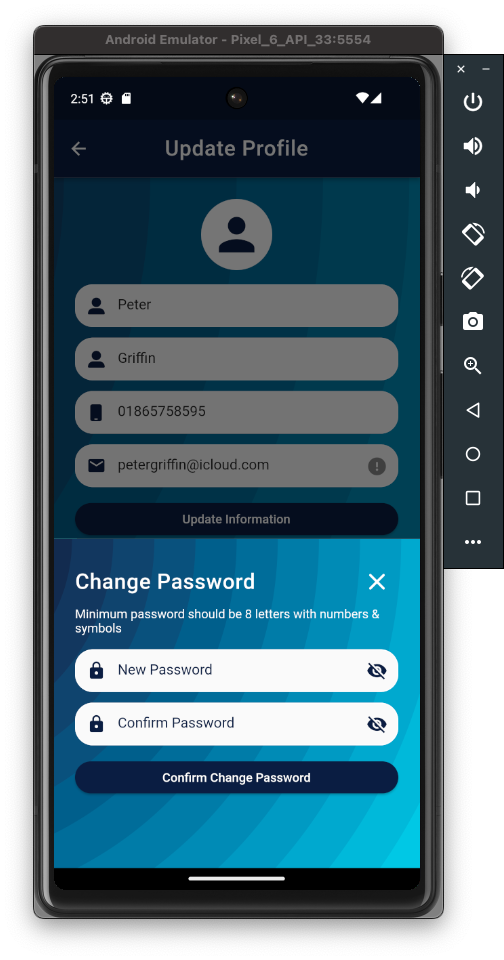
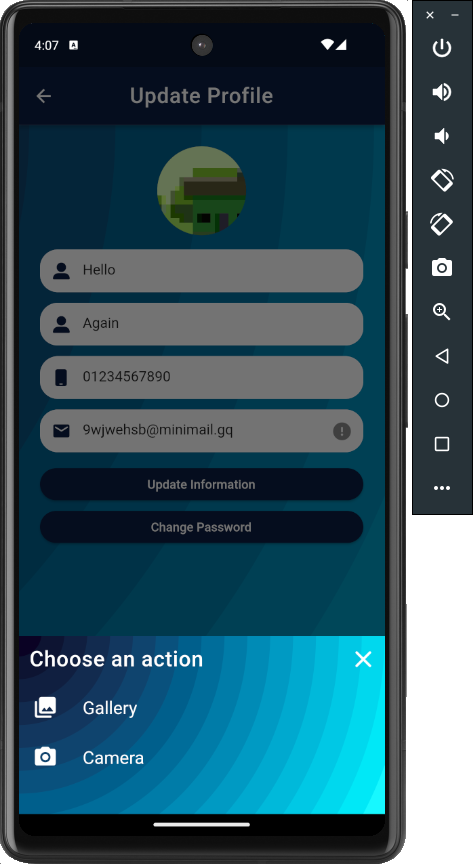
null check error fix

diff --git a/lib/ui/pages/update/update_profile_page.dart b/lib/ui/pages/update/update_profile_page.dart
@@ -31,21 +31,14 @@ class _ProfilePageState extends State<ProfilePage> {
   UpdateProfileController updateProfileController =
       Get.put(UpdateProfileController());
 
-  //UserData? userSharedperfData = AuthUtils.userInfo.value.data;
-UserData userSharedperfData = AuthUtils.userInfo.value.data!;
+  UserData userSharedperfData = AuthUtils.userInfo.value.data!;
   @override
   void initState() {
     super.initState();
-     _firstNameController.text = userSharedperfData.firstName ?? '';
+    _firstNameController.text = userSharedperfData.firstName ?? '';
     _lastNameController.text = userSharedperfData.lastName ?? '';
     _mobileNumberController.text = userSharedperfData.mobile ?? '';
     _emailController.text = userSharedperfData.email ?? '';
-    // if (userSharedperfData != null) {
-    //   _firstNameController.text = userSharedperfData?.firstName ?? '';
-    //   _lastNameController.text = userSharedperfData?.lastName ?? '';
-    //   _mobileNumberController.text = userSharedperfData?.mobile ?? '';
-    //   _emailController.text = userSharedperfData?.email ?? '';
-    // }
   }
 
   File? _imageFile;
@@ -58,17 +51,16 @@ UserData userSharedperfData = AuthUtils.userInfo.value.data!;
 
       _imageFile = File(pickedImage.path);
 
-      base64String = await Base64Image.base64EncodedString(_imageFile);
+      if (_imageFile != null) {
+        base64String = await Base64Image.base64EncodedString(_imageFile);
+      }
 
       setState(() {});
     } on PlatformException catch (e) {
       if (mounted) {
         CustomSnackbar.show(context: context, message: 'Error: $e');
-        
       }
     }
-
-  
   }
 
   @override
@@ -100,7 +92,6 @@ UserData userSharedperfData = AuthUtils.userInfo.value.data!;
                     ),
                   ),
                 ),
-                
                 const SizedBox(
                   height: 16,
                 ),
@@ -217,29 +208,30 @@ UserData userSharedperfData = AuthUtils.userInfo.value.data!;
                               if (!_formKey.currentState!.validate()) {
                                 return;
                               }
-
+                              final newProfileImage =
+                                  base64String ?? userSharedperfData.photo;
                               updateProfileController
                                   .profileUpdate(
-                                      _firstNameController.text.trim(),
-                                      _lastNameController.text.trim(),
-                                      _mobileNumberController.text.trim(),
-                                      userSharedperfData.email,
-                                      userSharedperfData.email,
-                                      // base64String ??
-                                      //     AuthUtils
-                                      //         .userInfo.value.data!.photo ??
-                                      //     "",
-                                          )
+                                _firstNameController.text.trim(),
+                                _lastNameController.text.trim(),
+                                _mobileNumberController.text.trim(),
+                                userSharedperfData.email,
+                                newProfileImage ?? "",
+                              )
                                   .then((updateProfile) {
                                 if (updateProfile == true) {
-                                  AuthUtils.updateUserInfo(UserData(
-                                    firstName: _firstNameController.text.trim(),
-                                    lastName: _lastNameController.text.trim(),
-                                    mobile: _mobileNumberController.text.trim(),
-                                    email: userSharedperfData.email,
-                                   // photo: base64String
-                                    //AuthUtils.updateUserInfo(userData)
-                                  ));
+                                  userSharedperfData.firstName =
+                                      _firstNameController.text.trim();
+                                  userSharedperfData.lastName =
+                                      _lastNameController.text.trim();
+                                  userSharedperfData.mobile =
+                                      _mobileNumberController.text.trim();
+                                  userSharedperfData.email =
+                                      userSharedperfData.email;
+                                  userSharedperfData.photo = newProfileImage;
+
+                                  AuthUtils.updateUserInfo(userSharedperfData);
+
                                   setState(() {});
                                   CustomSnackbar.show(
                                       context: context,
@@ -296,14 +288,16 @@ UserData userSharedperfData = AuthUtils.userInfo.value.data!;
     showModalBottomSheet(
       context: context,
       builder: (BuildContext context) {
-        return ImagePickerSheet(onTap1: () {
-                _pickImage(ImageSource.gallery);
-                Get.back();
-              }, onTap2: () {
-                _pickImage(ImageSource.camera);
-                Get.back();
-              },);
-      
+        return ImagePickerSheet(
+          onTap1: () {
+            _pickImage(ImageSource.gallery);
+            Get.back();
+          },
+          onTap2: () {
+            _pickImage(ImageSource.camera);
+            Get.back();
+          },
+        );
       },
     );
   }

diff --git a/lib/ui/widgets/profile_app_bar.dart b/lib/ui/widgets/profile_app_bar.dart
@@ -2,11 +2,9 @@ import 'package:flutter/material.dart';
 import 'package:get/get.dart';
 import 'package:progress_pal/data/utils/auth_utils.dart';
 import 'package:progress_pal/data/utils/base64image.dart';
-
 import 'package:progress_pal/ui/pages/about_page.dart';
 import 'package:progress_pal/ui/pages/auth/login_page.dart';
 import 'package:progress_pal/ui/pages/update/update_profile_page.dart';
-import 'package:progress_pal/ui/widgets/constraints.dart';
 import 'package:progress_pal/ui/widgets/dialog_box.dart';
 
 class ProfileAppBar extends StatefulWidget implements PreferredSizeWidget {
@@ -40,34 +38,33 @@ class _ProfileAppBarState extends State<ProfileAppBar> {
                 radius: 23,
                 backgroundColor: Colors.white,
                 child: GestureDetector(
-                  onTap: () {
-                    Get.to(() => const ProfilePage());
-                  },
-                  child:
-                      CircleAvatar(
-                        radius: 25,
-                        foregroundImage: Base64Image.getBase64Image(
-                            AuthUtils.userInfo.value.data!.photo!),
-                      )
+                    onTap: () {
+                      Get.to(() => const ProfilePage());
+                    },
+                    child: CircleAvatar(
+                      radius: 25,
+                      foregroundImage: Base64Image.getBase64Image(
+                          AuthUtils.userInfo.value.data!.photo!),
+                    )
 
-                  //     ClipOval(
-                  //   child: AuthUtils.userInfo.value.data!.photo != null
-                  //       ? Image.network(
-                  //           AuthUtils.userInfo.value.data!.photo!,
-                  //           errorBuilder: (context, error, stackTrace) {
-                  //             return CircleAvatar(
-                  //               radius: 25,
-                  //               foregroundImage: Base64Image.getBase64Image(
-                  //                   AuthUtils.userInfo.value.data!.photo!),
-                  //             );
-                  //           },
-                  //         )
-                  //       : Icon(
-                  //           Icons.person,
-                  //           color: myColor,
-                  //         ),
-                  // ),
-                ),
+                    //     ClipOval(
+                    //   child: AuthUtils.userInfo.value.data!.photo != null
+                    //       ? Image.network(
+                    //           AuthUtils.userInfo.value.data!.photo!,
+                    //           errorBuilder: (context, error, stackTrace) {
+                    //             return CircleAvatar(
+                    //               radius: 25,
+                    //               foregroundImage: Base64Image.getBase64Image(
+                    //                   AuthUtils.userInfo.value.data!.photo!),
+                    //             );
+                    //           },
+                    //         )
+                    //       : Icon(
+                    //           Icons.person,
+                    //           color: myColor,
+                    //         ),
+                    // ),
+                    ),
               ),
             ],
           ),

diff --git a/lib/ui/pages/update/update_pass.dart b/lib/ui/pages/update/update_pass.dart
@@ -162,10 +162,10 @@ class _UpdatePasswordBottomSheetState extends State<UpdatePasswordBottomSheet> {
                               if (updatePass == true) {
                                 CustomGetxSnackbar.showSnackbar(
                                     title: 'Password update successful',
-                                    message: "Navigate to home page",
+                                    message: "Keep your password safe",
                                     iconData: Icons.error_rounded,
                                     iconColor: Colors.green);
-                                Get.back();
+                                Navigator.pop(context);
                               } else {
                                 CustomGetxSnackbar.showSnackbar(
                                     title: 'Password update failed',

diff --git a/lib/ui/pages/auth/signup_page.dart b/lib/ui/pages/auth/signup_page.dart
@@ -209,7 +209,7 @@ class _SignupPageState extends State<SignupPage> {
                             if (signUp == true) {
                               CustomGetxSnackbar.showSnackbar(
                                   title: "Sign up successful",
-                                  message: 'Navigating to home page',
+                                  message: 'Welcome to Progress Pal',
                                   iconData: Icons.error_rounded,
                                   iconColor: Colors.green);
                               Get.offAll(() => const BottomNavBasePage());

diff --git a/README.md b/README.md
@@ -18,6 +18,7 @@
 ![Alt Text](assets/screenshots/ss15.png)
 ![Alt Text](assets/screenshots/ss16.png)
 ![Alt Text](assets/screenshots/ss17.png)
+![Alt Text](assets/screenshots/ss18.png)
 
 
 
